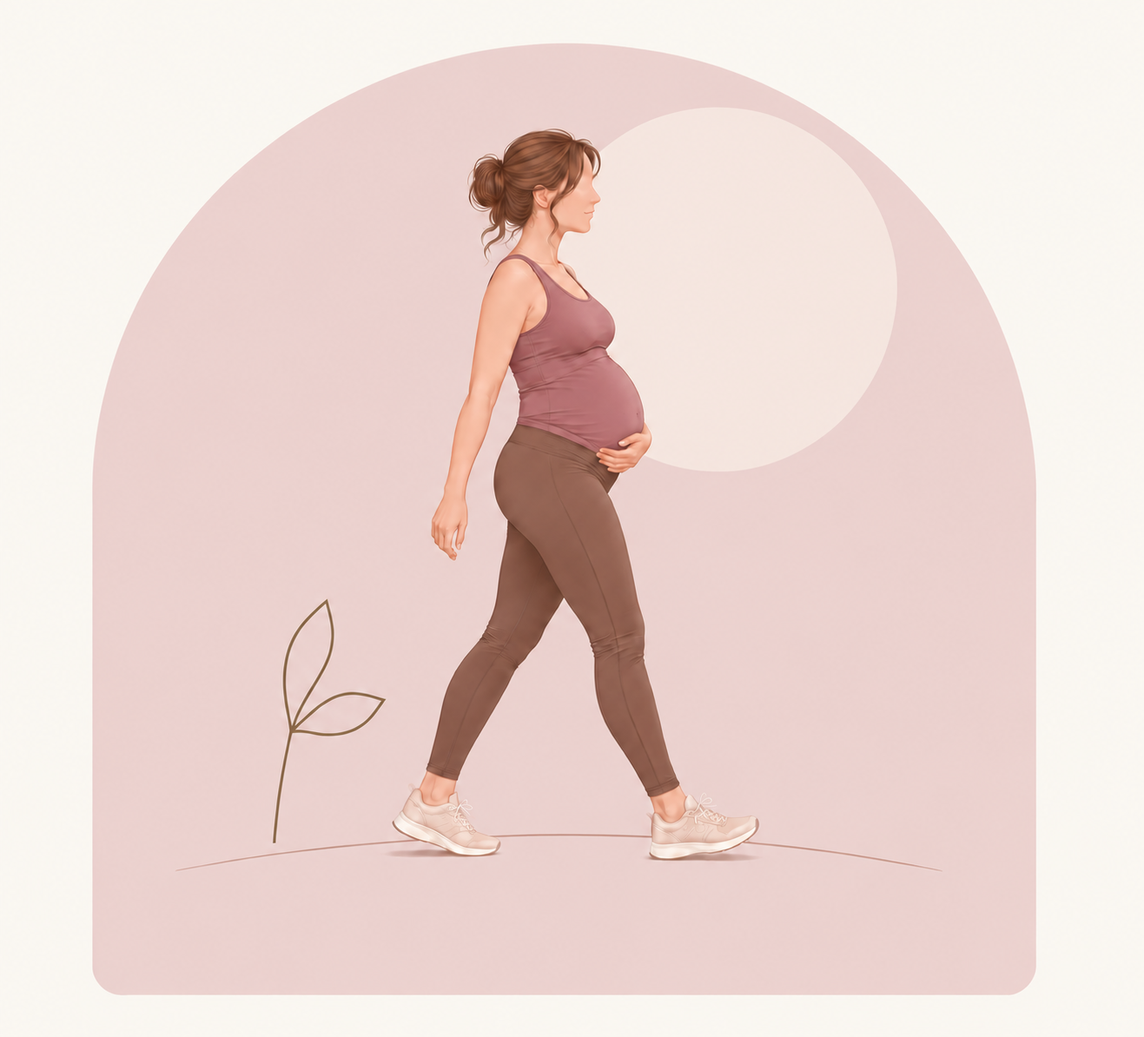
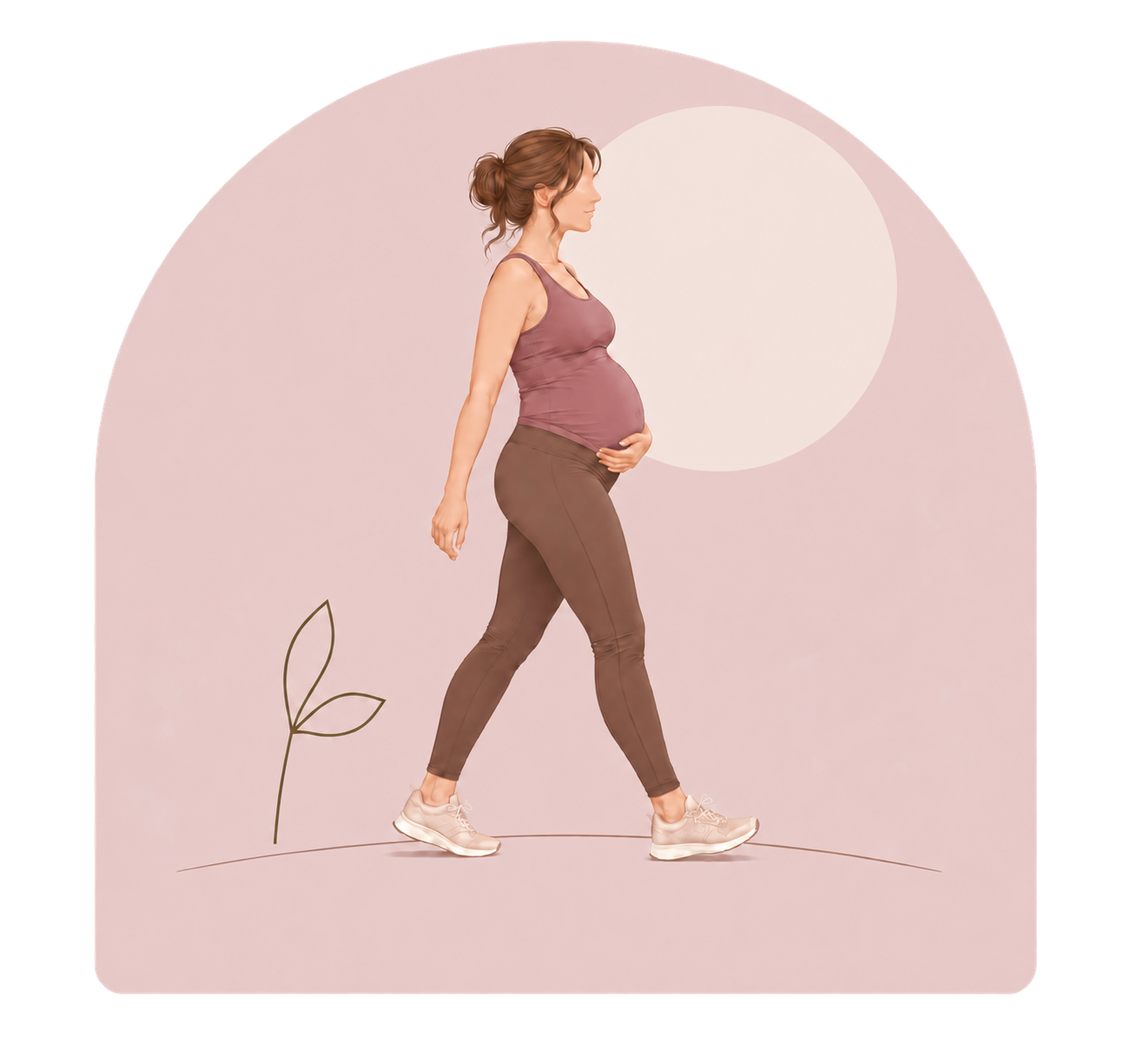
Add files via upload

diff --git a/index.html b/index.html
@@ -1,6 +1,6 @@
 <!doctype html><html lang="nl"><head><meta charset="utf-8"><meta name="viewport" content="width=device-width, initial-scale=1"><title>Bewust zwanger bewegen · Op jouw manier</title><meta name="description" content="Informatie over bewegen tijdens je zwangerschap: oefeningen, bekkenbodem, rust en veilig bewegen."><style>
 :root{--bg:#faf6f0;--ink:#49352f;--wine:#713747;--rose:#edd7d1;--line:#dfcec3;--muted:#74625a}*{box-sizing:border-box}html{scroll-behavior:smooth}body{margin:0;background:var(--bg);color:var(--ink);font:17px/1.75 system-ui,sans-serif}a{color:var(--wine)}button{font:inherit;cursor:pointer}button,a{-webkit-tap-highlight-color:transparent}a:focus-visible,button:focus-visible,summary:focus-visible{outline:3px solid var(--wine);outline-offset:5px}h1,h2,h3,.brand{font-family:Georgia,serif;font-weight:400;line-height:1.15}h1{font-size:clamp(44px,6.8vw,88px);letter-spacing:-2px;margin:16px 0 25px}h2{font-size:34px}p{margin:0 0 18px}header{height:92px;border-bottom:1px solid var(--line);display:flex;align-items:center;justify-content:space-between;padding:0 max(6vw,24px);background:var(--bg)}.brand{text-decoration:none;color:var(--wine);font-size:26px}.brand small{display:block;font:10px system-ui;letter-spacing:1px;text-transform:uppercase;margin-top:6px}.menu-button{border:1px solid var(--line);background:transparent;border-radius:30px;padding:9px 19px;display:flex;gap:14px;align-items:center}.burger{width:21px;display:grid;gap:5px}.burger i{height:1px;background:var(--ink)}main{min-height:70vh}.wrap{max-width:1200px;margin:auto;padding:0 6vw}.hero{display:grid;grid-template-columns:1.1fr 1fr;gap:60px;align-items:center;padding-top:64px;padding-bottom:70px}.eyebrow{font-size:11px;letter-spacing:2.6px;text-transform:uppercase;color:var(--wine);font-weight:650}.lead{color:var(--muted);max-width:490px;font-size:18px}.pill{display:inline-flex;background:var(--wine);color:white;padding:13px 24px;border-radius:30px;text-decoration:none;font-size:14px}.secondary{display:inline-block;margin-left:20px;font-size:14px}.hero-art{position:relative;background:var(--rose);border-radius:230px 230px 18px 18px;min-height:470px;display:flex;align-items:center;justify-content:center;overflow:hidden}.hero-art svg{width:88%;height:430px}.art-caption{position:absolute;bottom:24px;left:30px;font:italic 18px Georgia;color:var(--wine)}.mini{border-top:1px solid var(--line);border-bottom:1px solid var(--line);padding:23px 0;display:flex;justify-content:space-between;gap:20px;font-size:14px}.intro{padding-top:65px;padding-bottom:70px}.section-head{display:flex;justify-content:space-between;align-items:end;margin-bottom:30px}.section-head h2{font-size:42px;margin:10px 0}.cards{display:grid;grid-template-columns:repeat(3,1fr);gap:20px}.card{border:1px solid var(--line);padding:28px;min-height:245px;text-decoration:none;color:var(--ink);border-radius:5px;transition:background .2s}.card:hover{background:#f1e6dc}.card .num{font-size:12px;letter-spacing:2px;color:var(--wine)}.card h3{font-size:27px;margin:20px 0 12px}.card p{font-size:14px;color:var(--muted)}.arrow{display:block;color:var(--wine);font-size:24px}.quote{background:#ead9cf;padding:55px 6vw;text-align:center}.quote h2{font-size:clamp(30px,4vw,48px);max-width:750px;margin:0 auto 18px}.quote p{font-size:15px}.article-header{max-width:900px;margin:auto;padding:56px 24px 32px}.article-header h1{font-size:clamp(42px,5vw,66px)}.breadcrumb{font-size:13px}.article-layout{display:grid;grid-template-columns:230px 1fr;gap:65px;max-width:1100px;padding:20px 24px 80px;margin:auto}.toc{align-self:start;position:sticky;top:24px;font-size:14px}.toc strong{font-size:11px;letter-spacing:2px;text-transform:uppercase;display:block;margin-bottom:15px}.toc a{display:block;text-decoration:none;color:var(--muted);padding:8px 0;border-bottom:1px solid var(--line)}.article-content{max-width:730px}.text-section{margin-bottom:38px}.text-section h2{font-size:31px;margin:0 0 18px}.text-section li{margin-bottom:9px}.note,.alert{padding:24px 28px;background:#f0e4da;border-left:3px solid #b28b75;margin:25px 0}.note p,.alert p{margin:7px 0 0;font-size:15px}.alert{background:#f1dee2;border-color:var(--wine)}.video-slot{aspect-ratio:16/9;background:#e9d7ce;border-radius:8px;display:flex;flex-direction:column;align-items:center;justify-content:center;text-align:center;padding:20px;margin:24px 0;color:var(--wine)}.video-slot .play{font-size:40px;line-height:1.4}.video-slot span:not(.play){font-size:13px;margin-top:9px}.video-slot small{font-size:12px}.video-slot video{width:100%;height:100%}.tabs{display:flex;gap:8px;flex-wrap:wrap;margin-bottom:20px}.tabs button{border:1px solid var(--line);border-radius:25px;padding:9px 16px;background:transparent;font-size:14px;color:var(--ink)}.tabs button[aria-selected=true]{background:var(--wine);color:white}#trimester-panel{background:white;border:1px solid var(--line);padding:25px}details{border-bottom:1px solid var(--line);padding:20px 0}summary{cursor:pointer;font-weight:600}details p{font-size:16px;margin:15px 0}.next-links{display:flex;justify-content:space-between;gap:25px;margin-top:45px;border-top:1px solid var(--line);padding-top:25px;font-size:14px}footer{background:#49352f;color:#f4e9de;padding:40px 6vw;font-size:13px}footer a{color:#f4e9de}footer .brand{color:#f4e9de}.footer-row{display:flex;justify-content:space-between;gap:30px;max-width:1100px;margin:auto}.footer-note{max-width:480px;color:#dbc8bc}.skip{position:absolute;top:-100px;left:20px}.skip:focus{top:10px;background:white;z-index:20}dialog{border:0;padding:0;width:min(500px,100%);max-width:100%;height:100dvh;max-height:100dvh;margin:0 0 0 auto;background:var(--bg);color:var(--ink)}dialog::backdrop{background:#30221c80}.drawer{padding:30px 36px}.drawer-head{display:flex;justify-content:space-between;align-items:center}.close{background:transparent;border:1px solid var(--line);border-radius:50%;width:42px;height:42px}.drawer h2{font-size:38px}.drawer nav a{display:block;text-decoration:none;border-bottom:1px solid var(--line);padding:13px 0;color:var(--ink);font-size:17px}.drawer nav a[aria-current=page]{color:var(--wine);font-weight:700}.drawer p{margin-top:30px;font-size:13px;color:var(--muted)}@media(max-width:800px){.hero{grid-template-columns:1fr;gap:35px;padding-top:40px}.hero-art{min-height:340px;max-width:500px;width:100%;margin:auto}.hero-art svg{height:330px}.cards{grid-template-columns:1fr 1fr}.article-layout{grid-template-columns:1fr;gap:25px}.toc{position:static}.toc a{display:inline-block;margin-right:15px}.mini{flex-wrap:wrap}.footer-row{flex-direction:column}.section-head{display:block}}@media(max-width:500px){header{height:82px}.brand{font-size:20px;max-width:230px}.brand small{font-size:9px;line-height:1.4}.menu-button{padding:9px 12px;gap:8px}.cards{grid-template-columns:1fr}.secondary{margin:16px 0 0;display:block}.mini{display:grid;gap:10px}.hero-art{min-height:300px}.card{min-height:190px}.drawer{padding:25px}.article-header{padding-top:35px}.next-links{flex-direction:column}}@media(prefers-reduced-motion:reduce){html{scroll-behavior:auto}*{transition:none!important}}
-.anatomy-figure{margin:24px 0}.anatomy-figure img{display:block;width:100%;height:auto;border-radius:8px}.card{background:#a06c6f;border-color:#a06c6f;color:#10090a}.card .num,.card p,.card .arrow{color:#10090a}.card:hover{background:#b58385;border-color:#b58385}.card:focus-visible{outline:3px solid var(--wine);outline-offset:5px}.hero-art{background:transparent;border-radius:0;min-height:0;overflow:visible}.hero-art img{display:block;width:100%;height:auto}.hero-art{background:#faf6f0}.hero-art img{mask-image:linear-gradient(to right,transparent,#000 3%,#000 97%,transparent),linear-gradient(to bottom,transparent,#000 3%,#000 97%,transparent);mask-composite:intersect;-webkit-mask-image:linear-gradient(to right,transparent,#000 3%,#000 97%,transparent),linear-gradient(to bottom,transparent,#000 3%,#000 97%,transparent);-webkit-mask-composite:source-in}</style></head><body><a class="skip" href="#main">Naar de inhoud</a><header><a class="brand" href="#home">Bewust zwanger bewegen<small>Ontdek wat bij jou en je zwangerschap past.</small></a><button id="open-menu" class="menu-button" aria-haspopup="dialog" aria-controls="menu"><span>Menu</span><span class="burger" aria-hidden="true"><i></i><i></i><i></i></span></button></header><main id="main" tabindex="-1"></main><footer><div class="footer-row"><div><a class="brand" href="#home">Bewust zwanger bewegen</a><p>Met aandacht voor jou en je zwangerschap.</p><a href="#veilig">Veilig bewegen</a></div><p class="footer-note">Algemene informatie, geen persoonlijk medisch advies. Bij klachten of twijfel: overleg met je verloskundige of behandelaar.</p></div></footer><dialog id="menu" aria-labelledby="menu-title"><div class="drawer"><div class="drawer-head"><span class="eyebrow">Bewust zwanger bewegen</span><button class="close" id="close-menu" aria-label="Menu sluiten">×</button></div><h2 id="menu-title">Waar wil je<br>meer over weten?</h2><nav aria-label="Hoofdnavigatie" id="nav"></nav><p>Je hoeft niet alles tegelijk te weten.<br>Kies wat op dit moment bij je past.</p></div></dialog><script>
+.anatomy-figure{margin:24px 0}.anatomy-figure img{display:block;width:100%;height:auto;border-radius:8px}.card{background:#a06c6f;border-color:#a06c6f;color:#10090a}.card .num,.card p,.card .arrow{color:#10090a}.card:hover{background:#b58385;border-color:#b58385}.card:focus-visible{outline:3px solid var(--wine);outline-offset:5px}.hero-art{background:transparent;border-radius:0;min-height:0;overflow:visible}.hero-art img{display:block;width:100%;height:auto}.hero-art{background:#faf6f0}.hero-art{background:var(--bg)}.hero-art img{clip-path:url(#hero-arch)}</style></head><body><a class="skip" href="#main">Naar de inhoud</a><header><a class="brand" href="#home">Bewust zwanger bewegen<small>Ontdek wat bij jou en je zwangerschap past.</small></a><button id="open-menu" class="menu-button" aria-haspopup="dialog" aria-controls="menu"><span>Menu</span><span class="burger" aria-hidden="true"><i></i><i></i><i></i></span></button></header><svg width="0" height="0" aria-hidden="true" style="position:absolute"><defs><clipPath id="hero-arch" clipPathUnits="objectBoundingBox"><path d="M .083 .50 C .083 .245 .268 .041 .5 .041 C .724 .041 .904 .245 .904 .50 L .904 .925 Q .904 .956 .88 .956 L .108 .956 Q .083 .956 .083 .925 Z"/></clipPath></defs></svg><main id="main" tabindex="-1"></main><footer><div class="footer-row"><div><a class="brand" href="#home">Bewust zwanger bewegen</a><p>Met aandacht voor jou en je zwangerschap.</p><a href="#veilig">Veilig bewegen</a></div><p class="footer-note">Algemene informatie, geen persoonlijk medisch advies. Bij klachten of twijfel: overleg met je verloskundige of behandelaar.</p></div></footer><dialog id="menu" aria-labelledby="menu-title"><div class="drawer"><div class="drawer-head"><span class="eyebrow">Bewust zwanger bewegen</span><button class="close" id="close-menu" aria-label="Menu sluiten">×</button></div><h2 id="menu-title">Waar wil je<br>meer over weten?</h2><nav aria-label="Hoofdnavigatie" id="nav"></nav><p>Je hoeft niet alles tegelijk te weten.<br>Kies wat op dit moment bij je past.</p></div></dialog><script>
 const pages=[{"id": "voordelen", "title": "Goed voor jou. En je baby.", "desc": "Ontdek waarom bewegen een waardevol onderdeel van je zwangerschap kan zijn.", "body": "<section class=\"text-section\"><h2>Waarom blijven bewegen?</h2><p>Bewegen tijdens de zwangerschap heeft verschillende gezondheidsvoordelen voor jou en je baby. Regelmatig bewegen kan bijdragen aan:</p><ul><li>Een lager risico op zwangerschapsdiabetes</li><li>Minder lage rug- en bekkenpijn</li><li>Minder urineverlies tijdens en na de zwangerschap</li><li>Een sneller herstel na de bevalling</li><li>Een lager risico op depressieve klachten na de bevalling</li><li>Een grotere kans op een vaginale bevalling</li></ul></section><aside class=\"note\"><strong>Iedere zwangerschap is anders</strong><p>Welke beweging bij jou past, hangt af van je gezondheid, je ervaring en hoe je je voelt. Gezondheidsvoordelen zijn geen garantie voor een bepaalde bevalling of een klachtenvrije zwangerschap.</p></aside><section class=\"text-section\"><h2>Een moment dat bij jou past</h2><p>Maak bewegen onderdeel van je dag: wandel een klein stukje, neem een beweegpauze of kies een oefening die comfortabel voelt. Je hoeft jezelf niet met anderen te vergelijken.</p><a class=\"textlink\" href=\"#trimester\">Lees hoe je rustig begint →</a></section>"}, {"id": "trimester", "title": "Beweeg mee met je zwangerschap.", "desc": "Je lichaam verandert. Je manier van bewegen mag mee veranderen.", "body": "<section class=\"text-section\"><h2>Een haalbaar uitgangspunt</h2><p>Richt je bij een ongecompliceerde zwangerschap op ongeveer 150 minuten matig intensief bewegen per week, verdeeld over de dagen. Probeer ook tweemaal per week je spieren te versterken. Begin klein als je nog weinig beweegt; dit is een richting, geen prestatie-eis.</p></section><aside class=\"note\"><strong>De praattest</strong><p>Kun je tijdens het bewegen nog een gesprek voeren? Dan past de inspanning meestal bij een matige intensiteit. Ben je te buiten adem om te praten, neem dan gas terug.</p></aside><section class=\"text-section\"><h2>Per trimester</h2><div class=\"tabs\" role=\"tablist\" aria-label=\"Kies een trimester\"><button role=\"tab\" aria-selected=\"true\" data-tab=\"1\">1e trimester</button><button role=\"tab\" aria-selected=\"false\" data-tab=\"2\">2e trimester</button><button role=\"tab\" aria-selected=\"false\" data-tab=\"3\">3e trimester</button></div><div id=\"trimester-panel\" role=\"tabpanel\" tabindex=\"0\"></div></section><section class=\"text-section\"><h2>Kracht en dagelijkse beweging</h2><p>Je hoeft niet te wachten tot het eerste trimester voorbij is. Kies vertrouwde, comfortabele bewegingen voor benen, armen, rug en romp. Pas gewicht, bewegingsuitslag, herhalingen of houding aan als dat nodig is.</p><p>Wandelen en zwemmen zijn voorbeelden. Voor een nieuwe zware sport of bij een medische aandoening bespreek je eerst wat passend is met je zorgverlener.</p><a class=\"textlink\" href=\"#thuis\">Ontdek oefeningen voor thuis →</a></section>"}, {"id": "bekkenbodem", "title": "Aandacht voor je buik en bekkenbodem.", "desc": "Leer je lichaam kennen, met ruimte voor aanspannen én ontspannen.", "body": "<section class=\"text-section\"><h2>Wat doet je bekkenbodem?</h2><p>De bekkenbodem bestaat uit spieren onder in het bekken. Ze helpen de blaas, baarmoeder en darmen ondersteunen en spelen een rol bij het ophouden van urine, ontlasting en bij seksuele functies. Door je groeiende baarmoeder neemt de belasting toe.</p><figure class=\"anatomy-figure\"><img src=\"assets/bekkenbodem.png\" alt=\"Schematische zijaanzichtillustratie van het bekken met labels voor de baarmoeder, blaas, endeldarm en bekkenbodemspieren.\" width=\"1536\" height=\"1024\" loading=\"lazy\"></figure></section><section class=\"text-section\"><h2>Buikspieren blijven gebruiken</h2><p>Buikspieroefeningen hoeven niet volledig te verdwijnen. De uitvoering en jouw belastbaarheid bepalen wat passend is. Denk aan bekkenkantelingen, aangepaste bird dog-oefeningen, squats of functionele rompstabiliteit. Een dead bug vraagt extra aandacht voor belasting en rugligging; bespreek een geschikte variant.</p><div class=\"video-slot\" data-video=\"buikspieren.mp4\"><span class=\"play\" aria-hidden=\"true\">▷</span><strong>Buikspieroefeningen: uitvoering en aanpassingen</strong><span>Instructievideo volgt</span><small>Hier komt een video met uitleg en uitvoering.</small></div></section><section class=\"text-section\"><h2>Wanneer maak je een oefening lichter?</h2><ul><li>Je merkt een duidelijke bolling of richel in het midden van je buik.</li><li>De beweging wordt moeilijk te controleren.</li><li>Je houdt je adem in of perst hard.</li><li>Je voelt pijn, druk of ongemak.</li><li>Je moet sterk compenseren met andere spieren.</li></ul><p>Verlaag de belasting of kies een andere beweging. Een bolling betekent niet automatisch schade en vertelt op zichzelf niet welke spieren actief zijn.</p><figure class=\"anatomy-figure\"><img src=\"assets/diastase.png\" alt=\"Diastase tijdens de zwangerschap: vergelijking van een kleinere en grotere afstand tussen de rechte buikspieren. Het bindweefsel blijft de spieren verbinden. Daarnaast een groeiende zwangere buik en een mogelijke bolling in de middenlijn, die niet automatisch schade betekent.\" width=\"1536\" height=\"1024\" loading=\"lazy\"></figure></section><section class=\"text-section\"><h2>Ademhaling en buikdruk</h2><p>Bij inspanning ontstaat buikdruk. Blijf rustig ademen en vermijd langdurig je adem inhouden of hard persen. Uitademen tijdens het zwaarste deel, bijvoorbeeld omhoogkomen uit een squat, kan helpen.</p></section><aside class=\"note\"><strong>Wanneer hulp vragen?</strong><p>Bespreek terugkerend urineverlies, een zwaar gevoel in de bekkenbodem, pijn of vragen over de uitvoering met je verloskundige, gynaecoloog of bekkenfysiotherapeut.</p></aside>"}, {"id": "thuis", "title": "Een fijn begin, gewoon thuis.", "desc": "Vier soorten oefeningen om met aandacht voor je lichaam te verkennen.", "body": "<aside class=\"note\"><strong>Kies wat bij jou past</strong><p>Deze voorbeelden zijn geen persoonlijk trainingsschema. Oefen zonder pijn en pas je houding aan.</p></aside><section class=\"text-section\"><h2>01 · Ademhaling en bekkenbodem</h2><p>Ademhaling en bekkenbodem beïnvloeden elkaar. Neem tijd om zowel lichte aanspanning als ontspanning te voelen.</p><ol><li>Ga comfortabel zitten of op je zij liggen.</li><li>Leg je handen op je buik of onderste ribben.</li><li>Adem rustig in en laat buik en ribben zacht bewegen.</li><li>Adem uit en trek je bekkenbodem licht omhoog, alsof je je plas wilt ophouden.</li><li>Laat de spieren daarna volledig los en blijf rustig ademen.</li><li>Herhaal enkele keren, zolang aanspannen én ontspannen prettig blijven.</li></ol><p>Knijp niet hard met je billen en houd je adem niet in. Oefen niet door tijdens het plassen de straal te onderbreken. Kun je niet ontspannen of heb je pijn? Vraag een bekkenfysiotherapeut om begeleiding.</p><div class=\"video-slot\" data-video=\"ademhaling-bekkenbodem.mp4\"><span class=\"play\" aria-hidden=\"true\">▷</span><strong>Ademhaling en bekkenbodem</strong><span>Instructievideo volgt</span><small>Hier komt een video met uitleg en uitvoering.</small></div><aside class=\"note\"><strong>Animatie volgt</strong><p>Hier komt de aangeleverde animatie over ademhaling en bekkenbodem. De input verwijst naar een zoekresultaat; een direct bestand is nog nodig. <a href=\"https://www.google.com/search?tbm=isch&q=bewegende+afbeelding+bekkenbodem+en+middenrif\" target=\"_blank\" rel=\"noopener\">Bekijk de opgegeven beeldzoekopdracht ↗</a></p></aside></section><section class=\"text-section\"><h2>02 · Diepe buikspieren</h2><p>De diepe buikspieren werken samen met andere rompspieren om bewegingen te ondersteunen. Richt je op een lichte, comfortabele aanspanning terwijl je blijft ademen. Meer kracht is niet altijd beter.</p><p>Een rustige opbouw helpt je bewust te worden van de uitvoering. Een bolling kan aanleiding zijn de oefening aan te passen.</p><div class=\"video-slot\" data-video=\"diepe-buikspieren.mp4\"><span class=\"play\" aria-hidden=\"true\">▷</span><strong>Diepe buikspieren: van bewustwording naar beweging</strong><span>Instructievideo volgt</span><small>Hier komt een video met uitleg en uitvoering.</small></div></section><section class=\"text-section\"><h2>03 · Benen en billen</h2><p>Door je groeiende buik veranderen je houding en balans. Oefeningen voor benen en billen kunnen dagelijkse bewegingen zoals opstaan en traplopen ondersteunen. Kies een stabiele uitgangshouding en gebruik zo nodig een stoel als steun.</p><div class=\"video-slot\" data-video=\"benen-billen.mp4\"><span class=\"play\" aria-hidden=\"true\">▷</span><strong>Benen en billen: oefeningen voor thuis</strong><span>Instructievideo volgt</span><small>Hier komt een video met uitleg en uitvoering.</small></div></section><section class=\"text-section\"><h2>04 · Bekkenstabiliteit</h2><p>Bekkenklachten kunnen ontstaan door een samenspel van veranderingen in belasting, beweging en het lichaam. Pijn betekent niet automatisch dat je bekken instabiel is. Passende oefeningen en een aangepaste verdeling van activiteiten kunnen helpen.</p><p>Heb je pijn bij lopen, traplopen of omdraaien in bed? Laat beoordelen welke bewegingen bij jou passen.</p><div class=\"video-slot\" data-video=\"bekkenstabiliteit.mp4\"><span class=\"play\" aria-hidden=\"true\">▷</span><strong>Bekkenstabiliteit: een rustige opbouw</strong><span>Instructievideo volgt</span><small>Hier komt een video met uitleg en uitvoering.</small></div></section>"}, {"id": "herstel", "title": "Rust hoort er ook bij.", "desc": "Vind een balans tussen wat je doet en wat je lichaam vandaag aankan.", "body": "<section class=\"text-section\"><h2>Afwisselen en herstellen</h2><p>Werk, bewegen, huishouden, stress en slaap beïnvloeden samen je belasting. Wissel actievere momenten af met rust. Ook zittend rusten telt; op je zij liggen kan prettig zijn bij druk of vermoeidheid. Er is geen houding die voor iedereen de enige echte rust geeft.</p></section><section class=\"text-section\"><h2>Luister naar signalen</h2><details><summary>Spierpijn en napijn</summary><p>Lichte spierpijn kan voorkomen. Neem terugkerende, toenemende of aanhoudende pijn serieus en verlaag de belasting. Wacht bij duidelijke klachten niet tot een vaste grens van 48 uur.</p></details><details><summary>Vermoeidheid</summary><p>Je energie kan per dag verschillen. Als je uitgeput blijft ondanks rust, pas je activiteiten aan en bespreek dit met je zorgverlener.</p></details><details><summary>Harde buiken</summary><p>Stop en rust bij harde buiken tijdens inspanning. Bij herhaling, pijn, druk naar beneden of klachten die aanhouden neem je contact op met je verloskundige. Ga er niet automatisch van uit dat ze door sporten onschuldig zijn.</p></details></section><section class=\"text-section\"><h2>Op je werk</h2><p>Wissel zitten, staan en bewegen regelmatig af. Korte pauzes of een aangepaste werkplek kunnen helpen. Bespreek wat haalbaar is met je werkgever; vaste tijdsgrenzen passen niet bij iedereen.</p><ul><li>Verander regelmatig van houding.</li><li>Plan rustmomenten tussen zwaardere taken.</li><li>Loop even tijdens een pauze als dat prettig voelt.</li><li>Bespreek aanpassingen van werkplek en werkzaamheden.</li></ul><p>Meer weten? Lees de <a href=\"https://www.rijksoverheid.nl/vraag-en-antwoord/arbeidsomstandigheden/rechten-op-aangepast-werk-aangepaste-werktijden-en-verlof-tijdens-en-na-mijn-zwangerschap\" target=\"_blank\" rel=\"noopener\">informatie van Rijksoverheid over werk tijdens de zwangerschap ↗</a>.</p></section>"}, {"id": "veilig", "title": "Met vertrouwen én aandacht bewegen.", "desc": "Weet wat je kunt aanpassen en wanneer je hulp moet inschakelen.", "body": "<section class=\"text-section\"><h2>Reacties van je lichaam</h2><p>Je kunt sneller warm worden, meer zweten of merken dat je balans verandert. Kies een rustige omgeving, drink voldoende en voorkom oververhitting. Ongemak, duizeligheid of pijn zijn redenen om te stoppen en opnieuw te beoordelen wat past.</p></section><section class=\"text-section\"><h2>Activiteiten met extra risico</h2><ul><li>Vermijd contactsporten met kans op een botsing of klap op de buik.</li><li>Vermijd activiteiten met valgevaar, zoals paardrijden.</li><li>Ga niet scubaduiken tijdens de zwangerschap.</li><li>Vermijd hot yoga, hot pilates en andere omstandigheden waarin je oververhit kunt raken.</li></ul><p>Bespreek vragen over warmte, sauna en specifieke sporten met je verloskundige of gynaecoloog.</p></section><aside class=\"alert\"><strong>Minder of anders bewegen van je baby</strong><p>Merk je minder beweging, geen beweging of een verandering van het gebruikelijke patroon? Bel direct je verloskundige of het ziekenhuis. Wacht niet tot later of de volgende dag.</p></aside><section class=\"text-section\"><h2>Stop en neem contact op</h2><p>Stop de activiteit en neem direct contact op met je verloskundige of gynaecoloog bij:</p><ul><li>Vaginaal bloedverlies of mogelijk vruchtwaterverlies.</li><li>Pijnlijke, regelmatige of aanhoudende samentrekkingen.</li><li>Pijn, roodheid of zwelling in één kuit.</li><li>Ernstige hoofdpijn, problemen met zien of pijn boven in de buik/onder de ribben.</li><li>Pijn op de borst, flauwvallen of ongewone benauwdheid.</li></ul><p>Bel 112 bij een levensbedreigende situatie, zoals ernstige benauwdheid of bewusteloosheid.</p></section><section class=\"text-section\"><h2>Wanneer eerst overleggen?</h2><p>Bij gebroken vliezen, dreigende vroeggeboorte, zwangerschapsvergiftiging of andere complicaties is individueel medisch advies nodig voordat je beweegt. Volg de afspraken met je behandelaar.</p></section><aside class=\"note\"><strong>Twijfel je?</strong><p>Neem contact op met je verloskundige. Je hoeft niet zelf te bepalen of een klacht ernstig genoeg is.</p></aside>"}, {"id": "vragen", "title": "Een antwoord op je vragen.", "desc": "De belangrijkste informatie op één plek.", "body": "<details><summary>Mag ik beginnen als ik eerder weinig bewoog?</summary><p>Bij een ongecompliceerde zwangerschap kun je meestal rustig beginnen. Kies iets laagdrempeligs en bouw stap voor stap op. Bespreek medische bijzonderheden eerst.</p></details><details><summary>Moet ik elke dag sporten?</summary><p>Nee. Beweging kan ook een wandeling of korte oefening zijn. Verdeel wat haalbaar is over de week.</p></details><details><summary>Moet ik buikspieroefeningen vermijden?</summary><p>Niet automatisch. Een geschikte uitvoering hangt af van je zwangerschap, ervaring en klachten. Lees het onderwerp buik en bekkenbodem.</p></details><details><summary>Wat als een oefening pijn doet?</summary><p>Stop of pas de oefening aan. Vraag bij terugkerende klachten om beoordeling door een zorgverlener.</p></details><details><summary>Zijn de instructievideo’s al beschikbaar?</summary><p>Nog niet. De video’s worden door de makers toegevoegd. De gereserveerde blokken zijn duidelijk aangegeven.</p></details><details><summary>Is dit persoonlijk medisch advies?</summary><p>Nee. Deze website geeft algemene informatie. Je zorgverlener kan adviseren over jouw situatie.</p></details>"}];
 const labels={home:'Home',voordelen:'Gezondheidsvoordelen',trimester:'Bewegen per trimester',bekkenbodem:'Buik & bekkenbodem',thuis:'Oefeningen voor thuis',herstel:'Rust & herstel',veilig:'Veilig bewegen & alarmsignalen',vragen:'Veelgestelde vragen'};
 const intros=['Wat bewegen voor jou kan betekenen.','Een passend ritme in iedere fase.','Aanspannen, ontspannen en bewust bewegen.','Praktische informatie voor thuis.','Een balans tussen activiteit en rust.','Herken signalen en weet wanneer je hulp vraagt.'];
